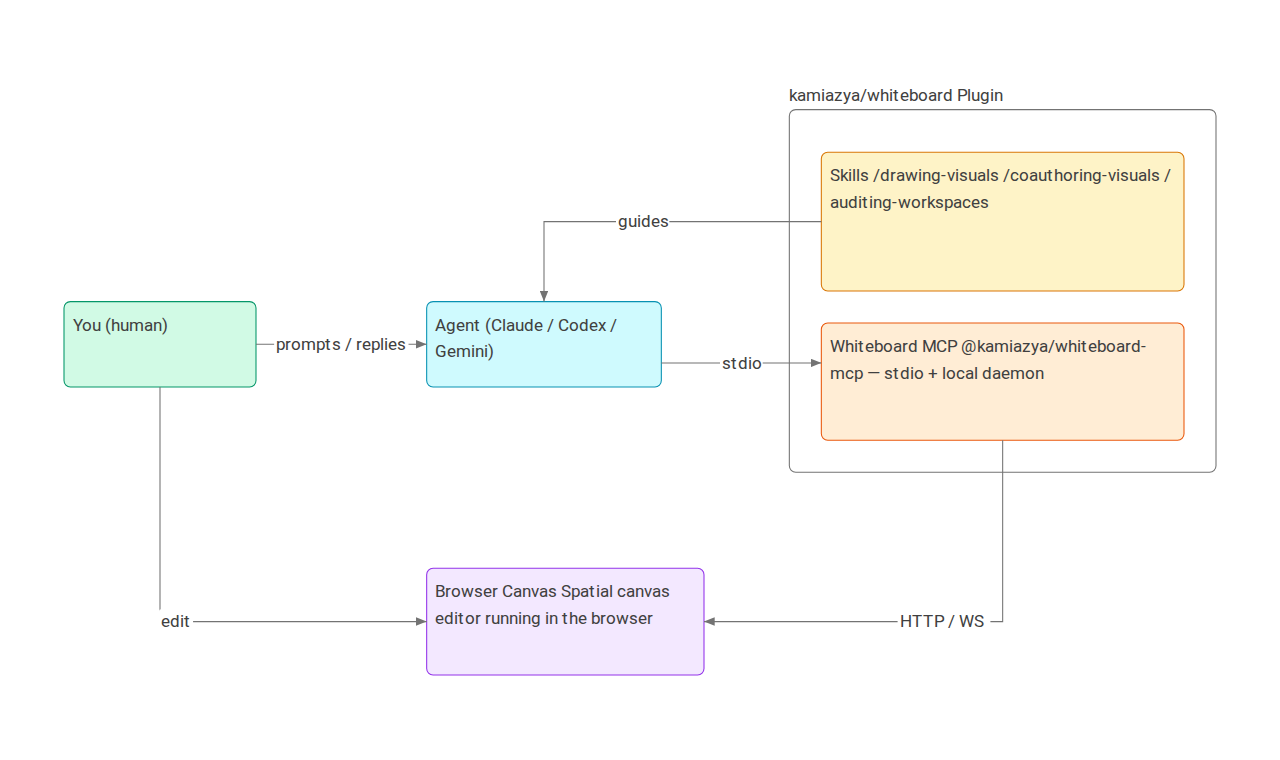
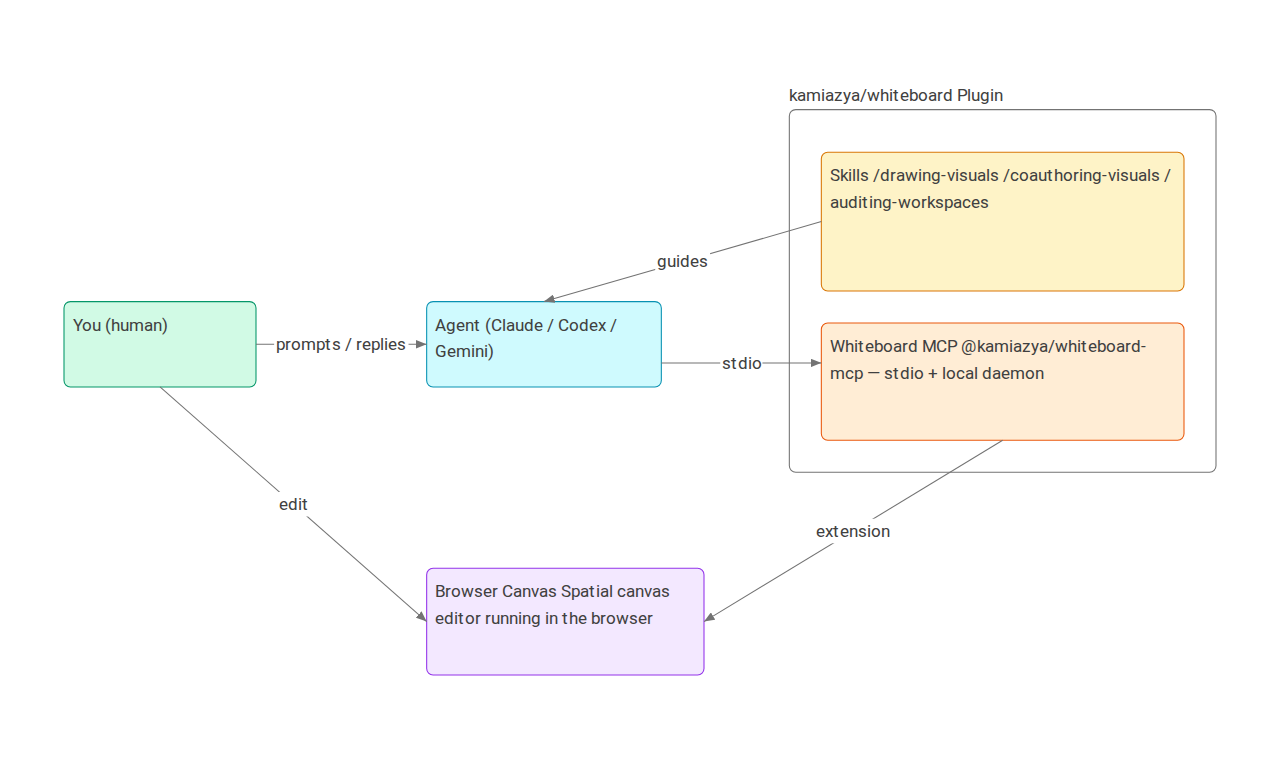
docs: regenerate the six stale doc PNGs, drawn without the legend's diagnostic chip
architecture.png still labelled the app-to-daemon edge "HTTP / WS" and the
canvas-browser-ui hero still showed the retired "Main" selector; the
committed images predated the extension transport and the current top bar.

Regenerating through the viewer now appends "box colour: no key carries it"
to every figure whose boxes spend colour with no scoped tag, including
canvas-presentation.png, which the README captions as a chrome-free export.
The doc scenes therefore draw through LegendlessCanvas (the same layout and
SVG backend CanvasViewer uses, with the backend's own legend: 'omit'), rather
than tagging boxes with invented keys purely to quiet the line. captureDocAsset
now refuses to write a figure carrying a legend or that diagnostic.

onboarding-chooser.png and browser-local-list.png regenerate byte-identical.

Claude-Session: https://claude.ai/code/session_019GHYoG9gAoF4WD1j4gavdR

diff --git a/apps/web/src/docs-snapshots/_legendless-canvas.tsx b/apps/web/src/docs-snapshots/_legendless-canvas.tsx
@@ -1,0 +1,60 @@
+// The doc scenes' canvas, drawn the way CanvasViewer draws it minus the
+// legend. A diagram's boxes carry their own labels, and these scenes spend
+// colour on a board that declares no scoped tag, so the real pipeline would
+// append a "box colour: no key carries it" diagnostic to every figure.
+// Inventing tags purely to quiet that line would put made-up data into a
+// scene, so the figure is drawn without the legend instead — the same
+// `legend: 'omit'` the editor passes when it draws the legend itself.
+//
+// Everything else CanvasViewer passes on this path is the default here too
+// (the light appearance, the bundled face, the clean style), so a scene
+// differs from the viewer's output by that one element.
+
+import {
+  createSpatialTheme,
+  layoutSpatialCanvas,
+  renderSceneToSvg,
+} from '@kamiazya/whiteboard-canvas-render'
+import { createBrowserMeasureText, SceneSvg } from '@kamiazya/whiteboard-canvas-viewer'
+import type { SpatialCanvas } from '@kamiazya/whiteboard-model'
+import { useMemo } from 'react'
+
+const LIGHT = createSpatialTheme({ mode: 'light' })
+
+interface LegendlessCanvasProps {
+  canvas: SpatialCanvas
+  width: number
+  height: number
+  padding?: number
+  testId?: string
+}
+
+export function LegendlessCanvas({
+  canvas,
+  width,
+  height,
+  padding = 0,
+  testId,
+}: LegendlessCanvasProps) {
+  const measure = useMemo(() => createBrowserMeasureText(), [])
+  const svg = useMemo(
+    () =>
+      renderSceneToSvg(layoutSpatialCanvas(canvas, { measure, appearance: LIGHT }), {
+        width,
+        height,
+        padding,
+        background: '#ffffff',
+        legend: 'omit',
+      }),
+    [canvas, measure, width, height, padding],
+  )
+  return (
+    <SceneSvg
+      as="figure"
+      svg={svg}
+      data-testid={testId}
+      aria-label="Canvas"
+      style={{ width, height, overflow: 'hidden', margin: 0 }}
+    />
+  )
+}

diff --git a/apps/web/src/docs-snapshots/_helpers.ts b/apps/web/src/docs-snapshots/_helpers.ts
@@ -13,6 +13,8 @@ import { waitFor } from '@testing-library/react'
 import { page } from 'vitest/browser'
 import { jsonResponse } from '../test-utils/json-response.js'
 
+const LEGEND_DIAGNOSTIC = 'no key carries it'
+
 export function resolveDocAssetPath(name: `${string}.png`): string {
   const dir: unknown = import.meta.env.VITE_DOCS_ASSETS_DIR
   if (typeof dir !== 'string' || dir.length === 0) {
@@ -96,6 +98,15 @@ export async function captureDocAsset(
   const target = container.querySelector(`[data-testid="${testId}"]`)
   if (!(target instanceof HTMLElement)) {
     throw new Error(`docs-snapshot: no element with data-testid="${testId}"`)
+  }
+  // A figure in the docs is a drawing, not a lint report: the legend's
+  // "no key carries it" line is a diagnostic about the board, and a legend
+  // panel is board chrome the doc scenes do not draw (see LegendlessCanvas).
+  if (
+    target.querySelector('[data-wb-legend]') !== null ||
+    (target.textContent ?? '').includes(LEGEND_DIAGNOSTIC)
+  ) {
+    throw new Error(`docs-snapshot: ${fileName} carries a legend or its diagnostic chip`)
   }
   await page.screenshot({
     path: resolveDocAssetPath(fileName),

diff --git a/apps/web/src/docs-snapshots/canvas-presentation.docs-snapshot.test.tsx b/apps/web/src/docs-snapshots/canvas-presentation.docs-snapshot.test.tsx
@@ -1,7 +1,8 @@
-import { CanvasViewer, ensureViewerFontLoaded } from '@kamiazya/whiteboard-canvas-viewer'
+import { ensureViewerFontLoaded } from '@kamiazya/whiteboard-canvas-viewer'
 import { cleanup, render } from '@testing-library/react'
 import { afterEach, describe, it } from 'vitest'
 import { captureDocAsset, waitForSnapshotContent } from './_helpers.js'
+import { LegendlessCanvas } from './_legendless-canvas.js'
 import { ARCHITECTURE_SCENE } from './_scenes.js'
 
 // Generates docs/assets/canvas-presentation.png — the same architecture
@@ -18,12 +19,11 @@ describe('docs snapshot — canvas presentation render', () => {
     await ensureViewerFontLoaded()
 
     const { container } = render(
-      <CanvasViewer
+      <LegendlessCanvas
         canvas={ARCHITECTURE_SCENE}
         width={1280}
         height={760}
         padding={60}
-        background="#ffffff"
         testId="canvas-presentation-scene"
       />,
     )

diff --git a/apps/web/src/docs-snapshots/_top-bar-frame.tsx b/apps/web/src/docs-snapshots/_top-bar-frame.tsx
@@ -3,9 +3,9 @@
 // filling the rest of a fixed-size white card. Only the framing dimensions
 // and the scene differ.
 
-import { CanvasViewer } from '@kamiazya/whiteboard-canvas-viewer'
 import type { SpatialCanvas } from '@kamiazya/whiteboard-model'
 import WorkspaceTopBar from '../components/WorkspaceTopBar.js'
+import { LegendlessCanvas } from './_legendless-canvas.js'
 
 const TOP_BAR_HEIGHT_PX = 48
 
@@ -32,12 +32,7 @@ export function TopBarFrame({ testId, width, height, scene }: TopBarFrameProps) 
         titleSlot={(identity) => <span>{identity.name}</span>}
       />
       <div style={{ height: `calc(100% - ${TOP_BAR_HEIGHT_PX}px)` }}>
-        <CanvasViewer
-          canvas={scene}
-          width={width}
-          height={height - TOP_BAR_HEIGHT_PX}
-          background="#ffffff"
-        />
+        <LegendlessCanvas canvas={scene} width={width} height={height - TOP_BAR_HEIGHT_PX} />
       </div>
     </div>
   )

diff --git a/apps/web/src/docs-snapshots/canvas-auth-flow.docs-snapshot.test.tsx b/apps/web/src/docs-snapshots/canvas-auth-flow.docs-snapshot.test.tsx
@@ -1,7 +1,8 @@
-import { CanvasViewer, ensureViewerFontLoaded } from '@kamiazya/whiteboard-canvas-viewer'
+import { ensureViewerFontLoaded } from '@kamiazya/whiteboard-canvas-viewer'
 import { cleanup, render } from '@testing-library/react'
 import { afterEach, describe, it } from 'vitest'
 import { captureDocAsset, waitForSnapshotContent } from './_helpers.js'
+import { LegendlessCanvas } from './_legendless-canvas.js'
 import { AUTH_FLOW_SCENE } from './_scenes.js'
 
 // Generates docs/assets/canvas-auth-flow.png — a small auth-service request
@@ -19,12 +20,11 @@ describe('docs snapshot — canvas auth flow diagram', () => {
     await ensureViewerFontLoaded()
 
     const { container } = render(
-      <CanvasViewer
+      <LegendlessCanvas
         canvas={AUTH_FLOW_SCENE}
         width={980}
         height={420}
         padding={40}
-        background="#ffffff"
         testId="canvas-auth-flow-scene"
       />,
     )

diff --git a/apps/web/src/docs-snapshots/architecture.docs-snapshot.test.tsx b/apps/web/src/docs-snapshots/architecture.docs-snapshot.test.tsx
@@ -1,7 +1,8 @@
-import { CanvasViewer, ensureViewerFontLoaded } from '@kamiazya/whiteboard-canvas-viewer'
+import { ensureViewerFontLoaded } from '@kamiazya/whiteboard-canvas-viewer'
 import { cleanup, render } from '@testing-library/react'
 import { afterEach, describe, it } from 'vitest'
 import { captureDocAsset, waitForSnapshotContent } from './_helpers.js'
+import { LegendlessCanvas } from './_legendless-canvas.js'
 import { ARCHITECTURE_SCENE } from './_scenes.js'
 
 // Generates docs/assets/architecture.png by rendering the canonical
@@ -20,12 +21,11 @@ describe('docs snapshot — architecture diagram', () => {
     await ensureViewerFontLoaded()
 
     const { container } = render(
-      <CanvasViewer
+      <LegendlessCanvas
         canvas={ARCHITECTURE_SCENE}
         width={1100}
         height={620}
         padding={40}
-        background="#ffffff"
         testId="architecture-scene"
       />,
     )
